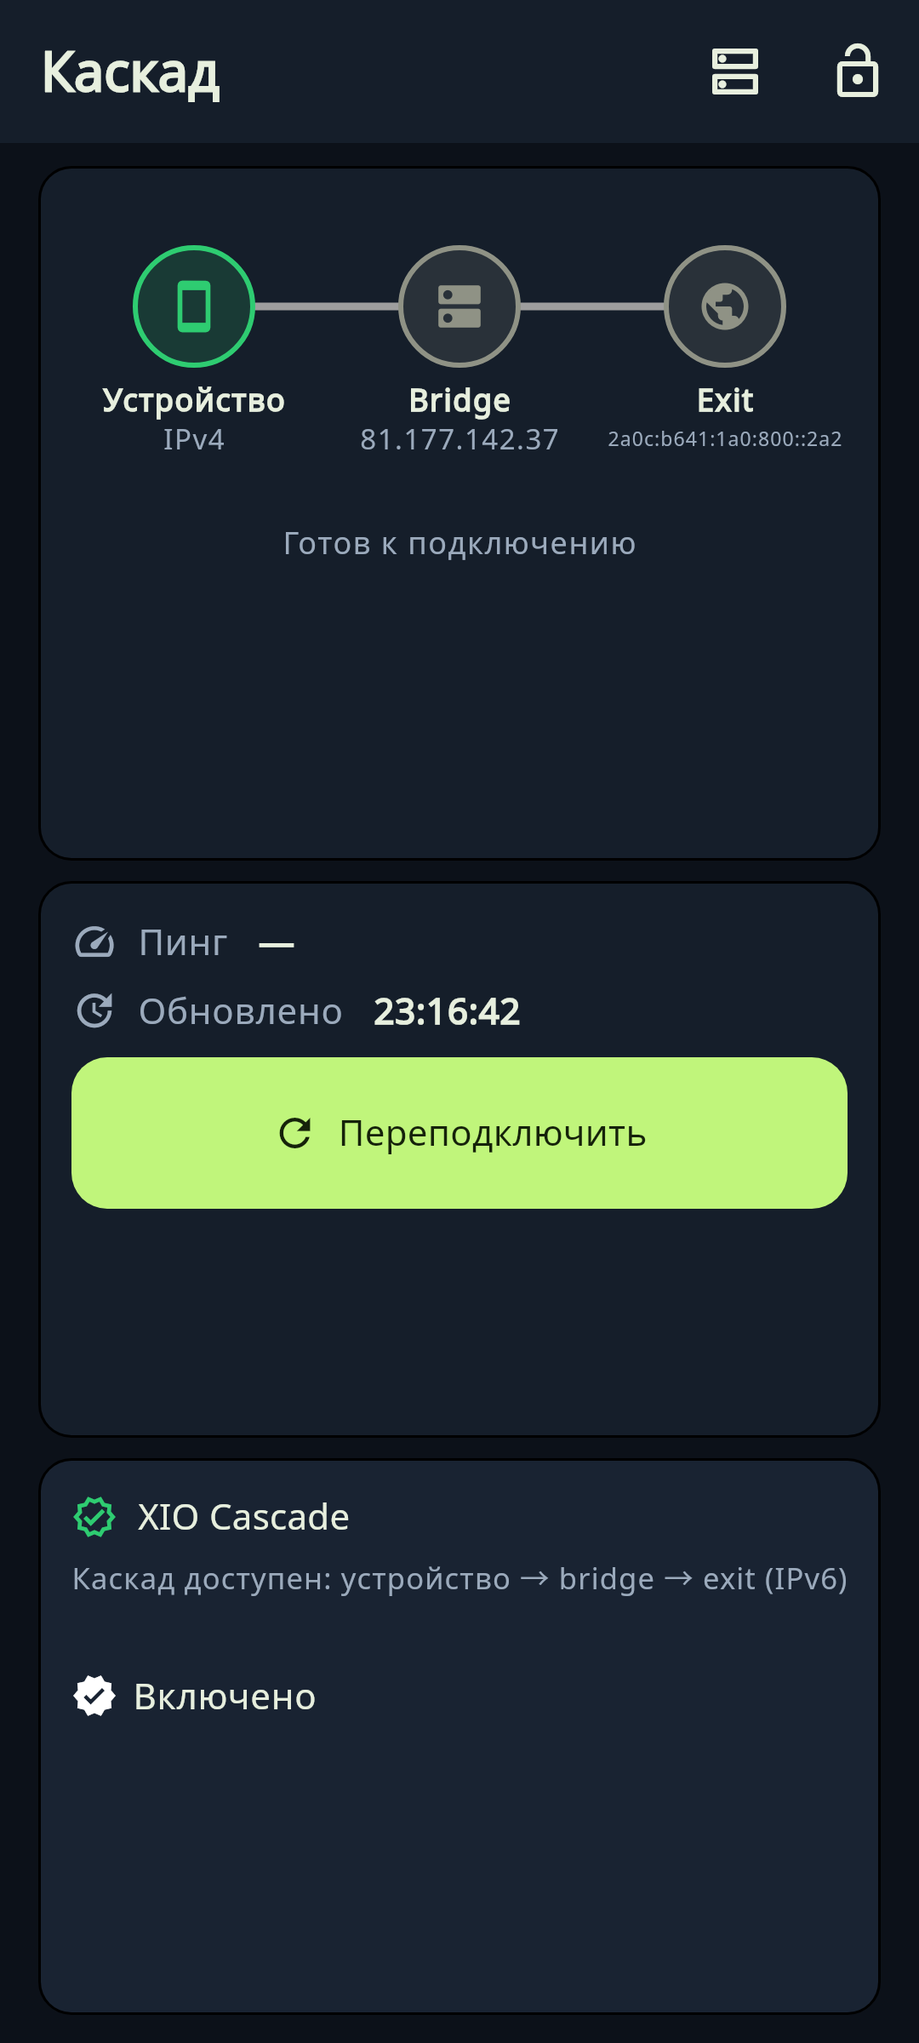
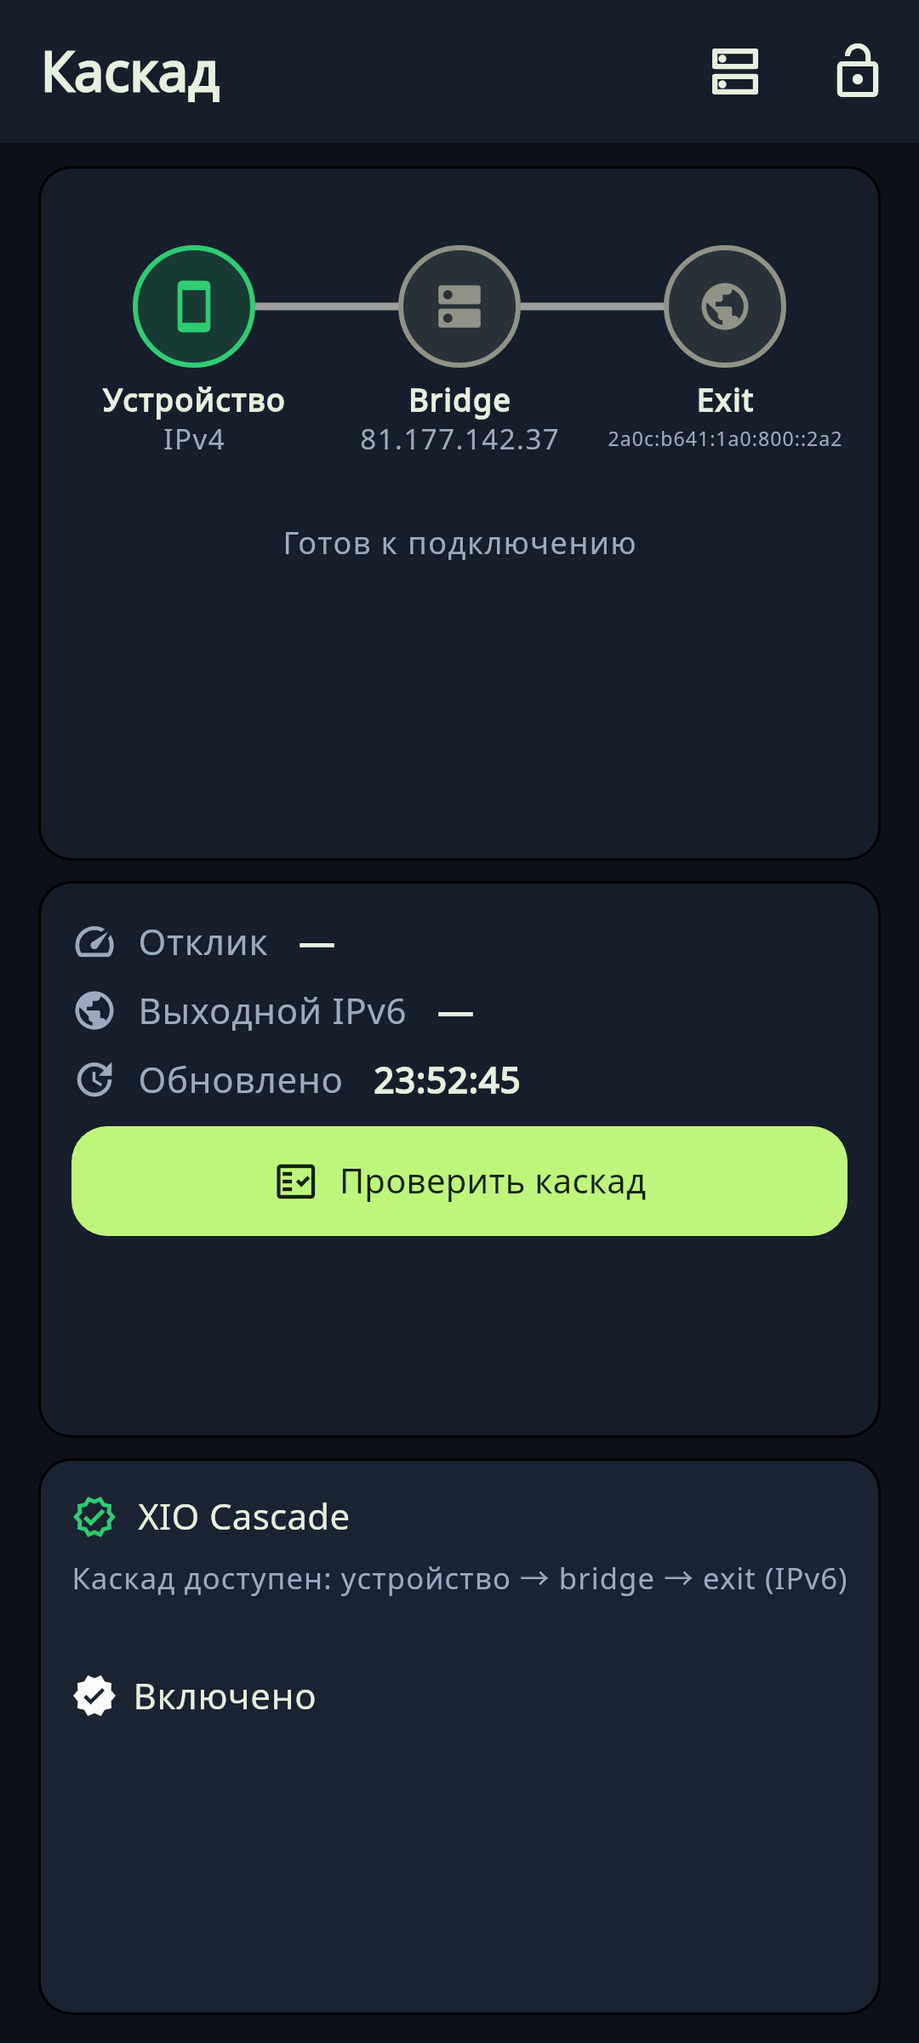
docs: refresh the 0.24.2 cascade screenshots
cascade-configured.png now shows the real 'Проверить каскад' button and empty latency/egress before the check. New cascade-health.png documents the screen after a successful check: live tunnel, 214 ms, egress IPv6 and the check time.

README.md and README.ru.md stop promising a 'Reconnect' button and describe the real SSH healthcheck; docs/screenshots/README.md adds the frame, its honest limitations and the updated on-device path; the 0.24.2 release notes get the matching bullet.

Changed region(s): [[0.0611, 0.4375, 0.9472, 0.625]]

diff --git a/docs/screenshots/README.md b/docs/screenshots/README.md
@@ -2,7 +2,7 @@
 
 [Главная](../../README.ru.md) · [Возможности](../features.ru.md) · [Схемы](../landing/architecture.mmd) · [Home (EN)](../../README.md)
 
-Девять кадров Android-интерфейса уже сняты и лежат рядом с этим файлом — их рисует сам
+Десять кадров Android-интерфейса уже сняты и лежат рядом с этим файлом — их рисует сам
 Flutter в widget-тесте (раздел 1). Остальные кадры (Windows, Ubuntu, телефон, веб-панель,
 терминал) ещё нужно снять: для них ниже точные инструкции и таблица статусов, а не выдумка.
 
@@ -16,7 +16,7 @@ Flutter в widget-тесте (раздел 1). Остальные кадры (Wi
 
 ## 1. Снятые кадры (golden-рендер, PNG)
 
-Все девять кадров получены `flutter test` на Debian 13, `Flutter 3.47.7`, тема тёмная, язык
+Все десять кадров получены `flutter test` на Debian 13, `Flutter 3.47.7`, тема тёмная, язык
 `ru`. Кадр рисует Flutter, а не система, поэтому `FLAG_SECURE` ему не мешает. Файлы —
 настоящие PNG, не SVG и не макеты.
 
@@ -24,7 +24,8 @@ Flutter в widget-тесте (раздел 1). Остальные кадры (Wi
 |---|---|---|---|
 | `main-idle.png` | Главная: «Отключено», круглая кнопка «Подключиться», выбранный сервер «🇷🇺 Основной сервер», «Автоматически · Xray / REALITY», счётчики 0 B | 1080×2400 | тест `main screen: idle, server chosen` |
 | `connection-tab.png` | Вкладка «Соединение»: «Вставить ключ или конфигурацию», «Файл с настройками подключения», «VPN на своём сервере», «Каскад: два сервера» (`IPv4 → bridge → IPv6 exit · по подписке`), «Добавить пользователя» | 1080×2400 | тест `connection tab: key, own server, cascade, user` |
-| `cascade-configured.png` | Экран «Каскад» с настроенными адресами: Устройство → Bridge `81.177.142.37` → Exit `2a0c:b641:1a0:800::2a2`, «Готов к подключению», пинг «—», плашка подписки «XIO Cascade» | 1080×2400 | тест `cascade screen: configured bridge and IPv6 exit` |
+| `cascade-configured.png` | Экран «Каскад» с настроенными адресами: Устройство → Bridge `81.177.142.37` → Exit `2a0c:b641:1a0:800::2a2`, «Готов к подключению», «Отклик —», «Выходной IPv6 —», кнопка «Проверить каскад», плашка подписки «XIO Cascade» | 1080×2400 | тест `cascade screen: configured bridge and IPv6 exit` |
+| `cascade-health.png` | Тот же экран после «Проверить каскад», когда проверка вернула `ok`: зелёные линии и станции, «Защищённый туннель только IPv6 · проверено», «Отклик 214 мс», «Выходной IPv6 2a0c:b641:1a0:800::2a2», «Обновлено 23:40:00» | 1080×2400 | тест `cascade health: result of «Проверить каскад»` |
 | `cascade-servers-dialog.png` | Диалог «Серверы каскада»: два поля (Bridge IPv4/домен, Exit только IPv6) с заполненными адресами и готовая команда установки `--role bridge --exit-host 2a0c:b641:1a0:800::2a2` | 1080×2400 | тест `cascade servers dialog: two fields and the install command` |
 | `settings.png` | Настройки: Серверы, Соединение, Приложение, Пользователи, Поддержать XIO, О XIO | 824×1830 (412×915 @2×) | тест `settings: list, then the application/locale screen` |
 | `settings-locales.png` | «Приложение» целиком: язык «Русский · ru», «Проверить обновления», три переключателя, «Оформление» | 824×1830 (412×915 @2×) | тот же тест, второй кадр |
@@ -56,6 +57,14 @@ XIO_CAPTURE_IMAGES=1 flutter test test/screenshots
   (`CascadeSubscription(entitled: true, planLabel: 'XIO Cascade')`). Сама подписка пока
   заглушка: `CascadeFeatureGate.enabled == false`, поэтому кнопка «Активировать» в кадре
   ничего не включает;
+- кнопка «Проверить каскад» в этих кадрах настоящая: она заблокирована на время запроса и
+  опрашивает bridge по SSH (`CascadeSshProbe`, тайм-аут 15 с). В widget-тесте SSH заменить
+  нечем, поэтому `cascade-health.png` подставляет в `healthProbe` заранее известный
+  `CascadeHealth(verdict: ok, latencyMs: 214, egressIpv6: 2a0c:b641:1a0:800::2a2)`: кадр
+  документирует **состояние экрана после успешной проверки**, а не результат живого сервера.
+  Сам экран при этом ничего не выдумывает — без ответа probe оставляет «—»;
+- `cascade-configured.png` до нажатия показывает «Отклик —» и «Выходной IPv6 —», а время в
+  строке «Обновлено» — момент открытия экрана, не результат проверки;
 - шрифты как в приложении: `X1oSans`, `X1oCJK` (из него же берётся стрелка `→`) и
   `MaterialIcons` входят в `app/assets`. Флаг страны (🇷🇺) и текст команды установки в
   моноширинном начертании берутся из системных `NotoColorEmoji` и `monospace` — на хосте без
@@ -97,8 +106,8 @@ XIO_CAPTURE_IMAGES=1 flutter test test/screenshots
 |---|---|---|---|
 | A1 | Главная, подключено | статус «Туннель активен · DNS через туннель», растущие счётчики | первый экран, доказательство работы |
 | A2 | Соединение → «Каскад: два сервера» | строка входа в каскад рядом с «Субклиенты» и «Проверка соединения» | показать точку входа |
-| A3 | Экран «Каскад» | три станции, флаги, пинг, плашка «Платная функция» | главный кадр каскада |
-| A4 | Экран «Каскад» после «Переподключить» | промежуточная стадия: жёлтая линия, «Устройство → Bridge · подключение» | показать состояния линии |
+| A3 | Экран «Каскад» | три станции, флаги, «Отклик —», кнопка «Проверить каскад», плашка «Платная функция» | главный кадр каскада |
+| A4 | Экран «Каскад» после «Проверить каскад» | зелёные станции, «Отклик 214 мс», реальный выходной IPv6 и время проверки | показать результат реальной проверки |
 | A5 | Форма установки сервера | галочка «Включить каскад (по подписке)» | установка из приложения |
 | A6 | Пользователи | карточка с ролью, online, трафиком за месяц | управление сервером |
 | A7 | Настройки → Соединение | «Протоколы», приоритет, тайм-аут, «Проверять доступность сайта» | раздельное туннелирование и протоколы |
@@ -215,8 +224,10 @@ adb -s 909f194a shell input tap 610 1420
 3. дать экрану дорисоваться 2 секунды (`Start-Sleep -Seconds 2`);
 4. `screencap` (раздел 5).
 
-Путь для A4 — тот же экран, но нажать **«Переподключить»** и поймать кадр в первые
-1,5 секунды: стадия `deviceToBridge` живёт 1800 мс, `bridgeToExit` — ещё 1600 мс.
+Путь для A4 — тот же экран, но нажать **«Проверить каскад»** и дождаться ответа (до 15 с):
+пока идёт SSH-запрос, кнопка показывает «Проверка…» и заблокирована; после ответа экран
+показывает отклик, выходной IPv6 и причину отказа, если проверка не прошла. Промежуточные
+жёлтые стадии больше не рисуются таймером — они появляются только по настоящему ответу.
 
 Путь для C1 (Client): `am start` → на экране подключения кнопка **«Каскад: два сервера»**.
 Путь для A5: **«+» → Настройка сервера** → прокрутить до галочки **«Включить каскад»**.
@@ -340,6 +351,7 @@ sudo ./install-webui.sh 0.0.0.0:10443        # скрипт печатает URL
 | A1 (главная, «Отключено») | `main-idle.png` | нет системной строки состояния, тёмная тема принудительная |
 | A2 (вкладка «Соединение») | `connection-tab.png` | то же |
 | A3 (экран «Каскад», настроенные адреса) | `cascade-configured.png` | подписка показана активной (заглушка `enabled == false`) |
+| A4 (экран «Каскад» после проверки) | `cascade-health.png` | probe подставлен тестом: кадр показывает состояние экрана после `ok`, а не живой SSH-ответ сервера |
 | A5 (форма установки) | `cascade-servers-dialog.png` | это диалог адресов, а не галочка «Включить каскад» |
 | A7 (настройки → «Приложение») | `settings.png`, `settings-locales.png` | «Оформление» без выбора темы: приложение следует системной |
 | A7 (Соединение → «DNS-резолвер») | `settings-dns.png` | выбор набора без системной строки состояния |
@@ -358,6 +370,7 @@ sudo ./install-webui.sh 0.0.0.0:10443        # скрипт печатает URL
 | `docs/screenshots/main-idle.png` | Android Full, главная: «Отключено», выбор сервера (golden) |
 | `docs/screenshots/connection-tab.png` | Android Full, вкладка «Соединение» (golden) |
 | `docs/screenshots/cascade-configured.png` | Android Full, «Каскад» с настроенными адресами (golden) |
+| `docs/screenshots/cascade-health.png` | Android Full, «Каскад» после успешной «Проверить каскад» (golden) |
 | `docs/screenshots/cascade-servers-dialog.png` | Диалог «Серверы каскада» и команда установки (golden) |
 | `docs/screenshots/settings.png`, `settings-locales.png` | Android Full, настройки и «Приложение» (golden) |
 | `docs/screenshots/settings-dns.png` | Android Full, «DNS-резолвер»: наборы и «Свои» (golden) |

diff --git a/README.ru.md b/README.ru.md
@@ -337,12 +337,19 @@ flowchart LR
 - три станции — устройство → bridge → exit — с флагами стран из ISO-кода;
 - линии состояния: серый — ожидание, жёлтый — установка или degraded, зелёный — активен,
   красный — failed;
-- пинг, время обновления, кнопка «Переподключить»;
+- строка статуса — «Отклик», «Выходной IPv6», «Обновлено» — и кнопка «Проверить каскад»:
+  она действительно опрашивает bridge по SSH (до 15 с) и показывает, жив ли туннель, реальное
+  время ответа, реальный выходной IPv6 и причину отказа, если проверка не прошла;
 - плашка «Платная функция. Требуется подписка» и кнопка «Активировать».
 
 | Экран «Каскад» с настроенными адресами | Диалог «Серверы каскада» |
 |---|---|
 | ![Экран «Каскад»: устройство, bridge 81.177.142.37, exit 2a0c:b641:1a0:800::2a2](docs/screenshots/cascade-configured.png) | ![Диалог «Серверы каскада»: два поля и команда установки](docs/screenshots/cascade-servers-dialog.png) |
+
+После нажатия «Проверить каскад» на том же экране появляется результат проверки: отклик,
+выходной IPv6 и время, когда сервер ответил.
+
+![Экран «Каскад» после «Проверить каскад»: зелёные станции и линии, отклик 214 мс, выходной IPv6 2a0c:b641:1a0:800::2a2, «Защищённый туннель только IPv6 · проверено»](docs/screenshots/cascade-health.png)
 
 Кадры — настоящий рендер экрана из widget-теста (`docs/screenshots/README.md`, раздел 1), а не
 макет. Плашка подписки в кадре показана в состоянии «активна», хотя подписка пока заглушка:

diff --git a/README.md b/README.md
@@ -349,12 +349,19 @@ flowchart LR
 
 - three stations — device → bridge → exit — with country flags from the ISO code;
 - state lines: grey idle, yellow connecting or degraded, green active, red failed;
-- ping, update time, a "Reconnect" button;
+- a status block — "Latency", "Egress IPv6", "Updated" — and a "Check cascade" button that
+  really probes the bridge over SSH (up to 15 s) and reports whether the tunnel is alive, the
+  measured response time, the real egress IPv6 and the failure reason;
 - a "Paid feature. Subscription required" plate and an "Activate" button.
 
 | Cascade screen with configured addresses | "Cascade servers" dialog |
 |---|---|
 | ![Cascade: device, bridge 81.177.142.37, exit 2a0c:b641:1a0:800::2a2](docs/screenshots/cascade-configured.png) | ![Cascade servers dialog: two fields and the install command](docs/screenshots/cascade-servers-dialog.png) |
+
+After "Check cascade" the same screen shows the result of the check: latency, the egress IPv6
+and the time the server answered.
+
+![Cascade screen after "Check cascade": green stations and lines, 214 ms latency, egress IPv6 2a0c:b641:1a0:800::2a2, "IPv6-only protected tunnel · verified"](docs/screenshots/cascade-health.png)
 
 These are real renders of the screen produced by a widget test
 ([docs/screenshots/README.md](docs/screenshots/README.md), section 1), not mockups. The frame
